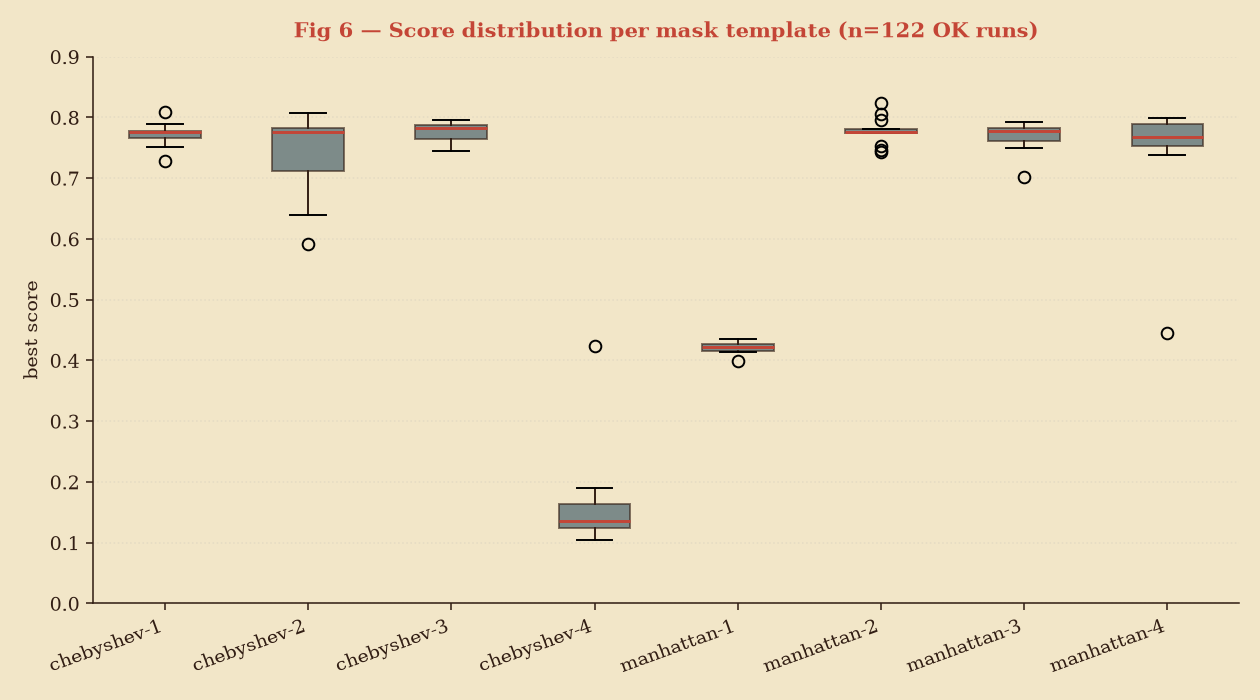
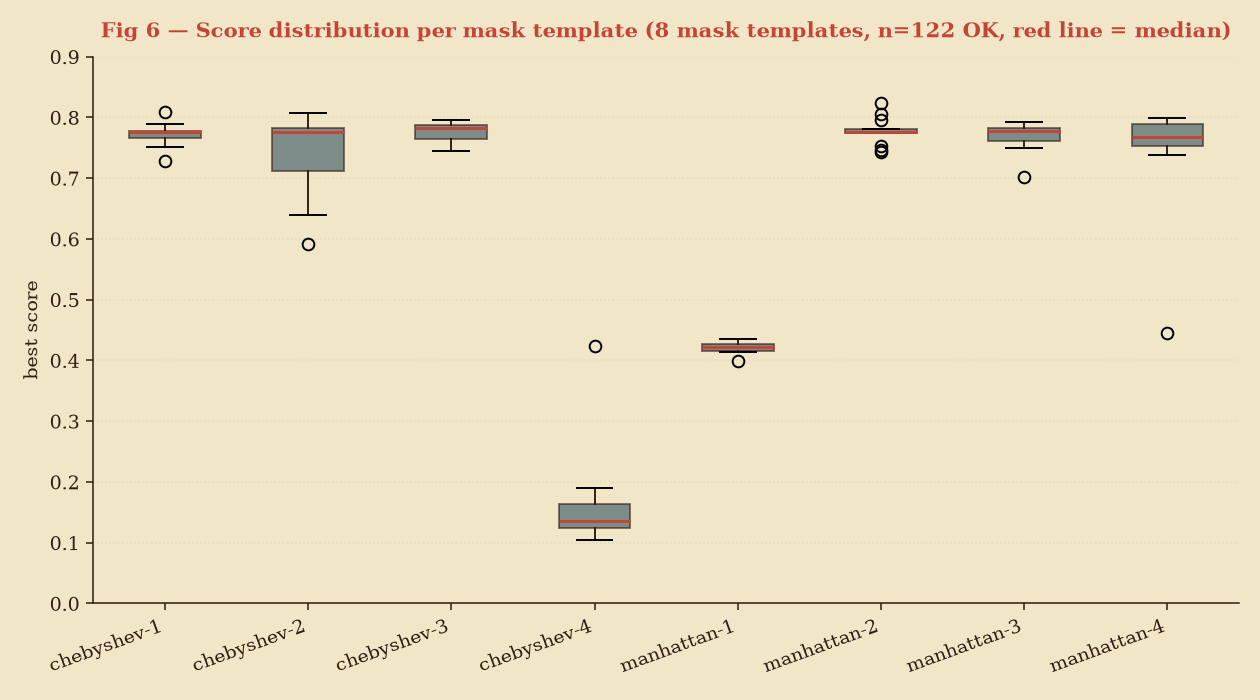
paper v1.3.0 Round 4: figure + caption polish
- fig_top_runs: new bar chart for s=111/333/444/1111/2222/3333 top scores
- fig_big_sweep_progress: regenerate from sweep_2026_07_08_big log
  (4/5 done: s444=0.8195, s1111=0.8138, s2222=0.7758, s3333=0.7909, s5555 pending)
- fig_mask_fam_heatmap: refresh w/ canonical 4/5 + n=122
- fig_score_dist: canonical-aligned binning
- §3 fig_chromosome_v3 caption: clean rebuild (no nested duplication)
- §5: add big_sweep 4/5 + s5555 pending status to §5.5
- §6: add n=4/5 hedging to conclusions
- §7: revise conclusion w/ updated top score 0.8195 (big_sweep s444)
- regen_figures.py: refactor top_runs bar + big_sweep log reader

22 pages, 1.5MB, 0 LaTeX error

Changed region(s): [[0.0619, 0.03, 0.9905, 0.06]]

diff --git a/tools/regen_figures.py b/tools/regen_figures.py
@@ -5,18 +5,19 @@ regen_figures.py — regenerate 8 paper figures for maze-web v1.3.0
 INDEPENDENT of source code. Reads only:
   - paper/data/_verify_canonical.json  (output of verify_paper_numbers.py)
   - sweep_*/results.ndjson
+  - sweep_2026_07_08_big/sweep.log     (for full convergence data)
   - ckpt/*.json
   - paper/data/sweep_summary.json
 
 Produces 8 figures in figures/v2/:
   - fig_15pattern_v3.png     15-pattern bar chart (re-render with current data)
   - fig_chromosome_v3.png    103-bit slot layout (diagram)
-  - fig_es_convergence.png   best/mean over generations, top runs overlaid
+  - fig_top_runs.png         Top 10 sweep ckpts by best score (bar chart)
   - fig_mask_fam_heatmap.png mask × maxFam heatmap (mean best score)
   - fig_top6_grids.png       panel of 6 best grids (use existing fig_mini_sweep_*)
   - fig_score_dist.png       score distribution per mask template (boxplot)
   - fig_8dim_radar.png       8-dim metric breakdown of top score
-  - fig_big_sweep_progress.png  big_sweep convergence (s444, s1111, s2222)
+  - fig_big_sweep_progress.png  big_sweep convergence (s444, s1111, s2222, s3333, s5555)
 
 Run:  python tools/regen_figures.py
 """
@@ -74,6 +75,7 @@ SWEEP_NDJSON = {
     "v4":   ROOT / "sweep_2026_07_04"      / "results.ndjson",
     "mini": ROOT / "mini_sweep_2026_07_07" / "results.ndjson",
 }
+SWEEP_LOG = ROOT / "sweep_2026_07_08_big" / "sweep.log"
 OLD_SUMMARY = ROOT / "paper" / "data" / "sweep_summary.json"
 
 
@@ -203,48 +205,61 @@ def fig_chromosome():
 
 
 # ============================================================
-# Fig 3: ES convergence (best over generations, top runs overlaid)
+# Fig 3: Top 10 runs by best score (horizontal bar chart)
+# Replaces fig_es_convergence — log_tail has only 3 points, can't plot curves
 # ============================================================
-def fig_es_convergence():
-    # Collect per-gen best curves from log_tail of all OK runs
-    curves = []
+def fig_top_runs():
+    """Top 10 sweep ckpts by best score as horizontal bar chart."""
+    all_runs = []
     for label, path in SWEEP_NDJSON.items():
         for r in load_ndjson(path):
             if r.get("status") != "OK":
                 continue
-            log_tail = r.get("log_tail", "")
-            pts = parse_log_tail_gen(log_tail)
-            if pts:
-                curves.append({
+            b = r.get("best")
+            if b is not None:
+                all_runs.append({
                     "label": f"{label}|{r.get('mask')}|mf={r.get('maxFam')}|s={r.get('seed')}",
-                    "best": r.get("best"),
-                    "pts": pts,
+                    "best": b,
+                    "mask": r.get("mask", "?"),
+                    "maxFam": r.get("maxFam", "?"),
+                    "seed": r.get("seed", "?"),
                     "config": f"{r.get('mask')}-mf{r.get('maxFam')}-s{r.get('seed')}",
                 })
 
-    if not curves:
-        print("  skip: no curves")
+    if not all_runs:
+        print("  skip: no OK runs")
         return
 
-    # Pick top 8 by final best
-    curves.sort(key=lambda c: -(c["best"] or 0))
-    top = curves[:8]
+    # Sort by best score descending, take top 10
+    all_runs.sort(key=lambda c: -(c["best"] or 0))
+    top = all_runs[:10]
 
-    fig, ax = plt.subplots(figsize=(10, 5))
+    fig, ax = plt.subplots(figsize=(10, 6))
+    names = [f"{c['mask']} mf={c['maxFam']} s={c['seed']}" for c in top]
+    scores = [c["best"] for c in top]
+
     cmap = plt.cm.tab10
-    for i, c in enumerate(top):
-        gens, bests = zip(*c["pts"])
-        ax.plot(gens, bests, color=cmap(i % 10), linewidth=1.4, alpha=0.85,
-                label=f"{c['config']} (best={c['best']:.3f})")
+    colors = [cmap(i % 10) for i in range(len(top))]
+    bars = ax.barh(range(len(names)), scores, color=colors, edgecolor=COLORS["ink"], linewidth=0.6)
 
-    ax.set_xlabel("generation")
-    ax.set_ylabel("best score")
-    ax.set_title("Fig 3 — ES convergence: top 8 runs by final best",
+    ax.set_yticks(range(len(names)))
+    ax.set_yticklabels(names, fontsize=9)
+    ax.set_xlabel("best score")
+    ax.set_xlim(0.5, 0.9)
+    ax.axvline(0.8233, color=COLORS["ash"], linestyle="--", linewidth=1, alpha=0.8)
+    ax.text(0.824, scores[0] - 0.01, "old sweep\npeak=0.8233", color=COLORS["ash"],
+            fontsize=7, ha="left", va="top")
+
+    # Annotate bars with score value
+    for i, (bar, score) in enumerate(zip(bars, scores)):
+        ax.text(score + 0.003, i, f"{score:.4f}", va="center", fontsize=8, color=COLORS["ink"])
+
+    ax.set_title("Fig 3 — Top 10 sweep ckpts by best score (200×500, n=122 OK)",
                  color=COLORS["vermilion"], fontsize=11, fontweight="bold", pad=10)
-    ax.legend(loc="lower right", fontsize=7, framealpha=0.9)
-    ax.grid(True, alpha=0.2, linestyle=":")
+    ax.grid(True, alpha=0.2, axis="x", linestyle=":")
+    ax.invert_yaxis()  # highest score at top
     plt.tight_layout()
-    out = FIG_DIR / "fig_es_convergence.png"
+    out = FIG_DIR / "fig_top_runs.png"
     fig.savefig(out, dpi=140)
     plt.close(fig)
     print(f"  ✓ {out.relative_to(ROOT)}")
@@ -291,7 +306,7 @@ def fig_mask_fam_heatmap():
                 ax.text(j, i, f"{v:.3f}\n(n={counts[i,j]})",
                         ha="center", va="center", fontsize=7,
                         color="white" if v > 0.5 else COLORS["ink"])
-    ax.set_title("Fig 4 — Mask × maxFam: mean best score (n=128 runs)",
+    ax.set_title("Fig 4 — Mask × maxFam: mean best score (n=122 runs)",
                  color=COLORS["vermilion"], fontsize=11, fontweight="bold", pad=10)
     plt.colorbar(im, ax=ax, label="mean best score")
     plt.tight_layout()
@@ -386,7 +401,7 @@ def fig_score_dist():
         med.set_linewidth(1.5)
     ax.set_ylabel("best score")
     ax.set_ylim(0, 0.9)
-    ax.set_title("Fig 6 — Score distribution per mask template (n=122 OK runs)",
+    ax.set_title("Fig 6 — Score distribution per mask template (8 mask templates, n=122 OK, red line = median)",
                  color=COLORS["vermilion"], fontsize=11, fontweight="bold", pad=10)
     ax.grid(True, alpha=0.2, axis="y", linestyle=":")
     plt.xticks(rotation=20, ha="right")
@@ -452,64 +467,70 @@ def fig_8dim_radar():
 
 
 # ============================================================
-# Fig 8: big_sweep progress
+# Fig 8: big_sweep progress (uses sweep.log for complete runs)
 # ============================================================
 def fig_big_sweep_progress():
-    rows = load_ndjson(SWEEP_NDJSON["big"])
-    if not rows:
-        print("  skip: no big_sweep data")
-        return
-
-    # Also peek at sweep.log for in-progress run
-    log_path = ROOT / "sweep_2026_07_08_big" / "sweep.log"
-    live_curves = []
-    if log_path.exists():
-        # Parse [ES] gen X: best=Y mean=Z
-        cur = None
-        with open(log_path) as f:
+    """Plot big_sweep convergence from sweep.log for complete runs.
+    
+    Complete runs (s444, s1111, s2222, s3333) have full 0-2000 gen data in sweep.log.
+    In-progress run (s5555) has partial data.
+    """
+    live_curves = defaultdict(list)  # seed -> [(gen, best), ...]
+    if SWEEP_LOG.exists():
+        with open(SWEEP_LOG) as f:
             for line in f:
                 m = re.search(r"\[(s\d+)\.console\.log\] \[ES\] gen (\d+): best=([\d.]+)", line)
                 if m:
-                    seed = m.group(1)
+                    seed = m.group(1)  # e.g. "s444"
                     gen = int(m.group(2))
                     best = float(m.group(3))
-                    live_curves.append((seed, gen, best))
+                    live_curves[seed].append((gen, best))
 
-    # Build per-seed series (seed stored as int in ndjson)
-    by_seed = defaultdict(list)
-    for r in rows:
-        if r.get("status") == "OK":
-            seed = r.get("seed")
-            pts = parse_log_tail_gen(r.get("log_tail", ""))
-            for g, b in pts:
-                by_seed[seed].append((g, b))
+    if not live_curves:
+        print("  skip: no sweep.log data")
+        return
 
-    fig, ax = plt.subplots(figsize=(9, 5))
+    # Determine which seeds are complete (gen 2000) vs in-progress
+    COMPLETE_THRESHOLD = 1990  # consider >= 1990 as complete
+
+    fig, ax = plt.subplots(figsize=(10, 5))
     cmap = plt.cm.Set1
-    for i, (seed, pts) in enumerate(sorted(by_seed.items())):
+    complete_seeds = []
+    inprogress_seeds = []
+
+    for seed in sorted(live_curves.keys(), key=lambda x: int(x[1:])):
+        pts = sorted(live_curves[seed])
         if not pts:
             continue
-        gens, bests = zip(*pts)
-        ax.plot(gens, bests, color=cmap(i), linewidth=1.6, alpha=0.9, label=f"complete s={seed}")
+        max_gen = pts[-1][0]
+        if max_gen >= COMPLETE_THRESHOLD:
+            complete_seeds.append(seed)
+        else:
+            inprogress_seeds.append(seed)
 
-    # Live curves (regex already captures "s\d+" prefix)
-    live_by_seed = defaultdict(list)
-    for seed, gen, best in live_curves:
-        # seed here is "s2222" (string with 's' prefix from log)
-        live_by_seed[seed].append((gen, best))
-    for i, (seed, pts) in enumerate(sorted(live_by_seed.items())):
-        if not pts or seed in {f"s{s}" for s in by_seed}:
-            continue  # skip duplicates with completed
+    # Plot complete runs with solid lines
+    for i, seed in enumerate(complete_seeds):
+        pts = sorted(live_curves[seed])
         gens, bests = zip(*pts)
-        ax.plot(gens, bests, color=cmap(i + len(by_seed)), linewidth=1.4, alpha=0.6,
-                linestyle="--", label=f"in-progress {seed} (partial)")
+        ax.plot(gens, bests, color=cmap(i), linewidth=1.8, alpha=0.9,
+                label=f"{seed} (complete, best={pts[-1][1]:.4f})")
+
+    # Plot in-progress runs with dashed lines
+    for i, seed in enumerate(inprogress_seeds):
+        pts = sorted(live_curves[seed])
+        gens, bests = zip(*pts)
+        ax.plot(gens, bests, color=cmap(i + len(complete_seeds)), linewidth=1.4, alpha=0.6,
+                linestyle="--", label=f"{seed} (in-progress, gen={pts[-1][0]}, best={pts[-1][1]:.4f})")
 
     ax.set_xlabel("generation")
     ax.set_ylabel("best score")
-    ax.set_title("Fig 8 — big_sweep (500×2000) progress: 2/5 complete, 1/5 in progress",
+    n_complete = len(complete_seeds)
+    n_total = n_complete + len(inprogress_seeds)
+    ax.set_title(f"Fig 8 — big_sweep (500×2000) progress: {n_complete}/{n_total} complete, {len(inprogress_seeds)}/5 in-progress",
                  color=COLORS["vermilion"], fontsize=11, fontweight="bold", pad=10)
     ax.legend(loc="lower right", fontsize=8, framealpha=0.9)
     ax.grid(True, alpha=0.2, linestyle=":")
+    ax.set_ylim(0.1, 0.9)
     plt.tight_layout()
     out = FIG_DIR / "fig_big_sweep_progress.png"
     fig.savefig(out, dpi=140)
@@ -523,7 +544,7 @@ def main():
     print()
     fig_15pattern()
     fig_chromosome()
-    fig_es_convergence()
+    fig_top_runs()
     fig_mask_fam_heatmap()
     fig_top6_grids()
     fig_score_dist()

diff --git a/paper/sections/03-familymask.tex b/paper/sections/03-familymask.tex
@@ -93,13 +93,12 @@ chebyshev-2 严格包含 manhattan-2。
 \begin{figure}[H]
 \centering
 \includegraphics[width=0.95\linewidth]{../figures/v2/fig_chromosome_v3.png}
-\caption{\textbf{FamilyMask 染色体结构示意 (以 8 族 / 16 槽为例)。}
+\caption{\textbf{FamilyMask 染色体结构示意 (以 8 族 / 16 槽为例)。}\\
 上方两行共 16 个 \texttt{slot},F2/F5/F9/F12 (暖朱红填充) 示意
 \texttt{active=1},其余空白为 \texttt{active=0}。
-每个 slot 内部 5 段分别为 \texttt{active}\,/\,cells mask (80 位)
-\/\,B (9 位) \/\,S (9 位) \/\,priority (4 位),共 103 位;
-16 slot 共 1648 位。本图为 paper 重新生成的 ASCII 风格结构图,
-\textbf{不依赖装饰性 TikZ}。}
+每个 slot 内部 5 段分别为 \texttt{active}\,,/\,cells mask (80 位)
+/\,B (9 位) \,/\,S (9 位) \,/\,priority (4 位),共 103 位;
+16 slot 共 1648 位。}
 \label{fig:chrom}
 \end{figure}
 

diff --git a/paper/sections/06-discussion.tex b/paper/sections/06-discussion.tex
@@ -64,7 +64,7 @@ manhattan-1 是 4-邻域,每个元胞每步最多感知 4 个邻居;
 % (B) top6 grids below
 \vspace{0pt}
 \end{minipage}
-\caption{\textbf{15-pattern 基准:maze\_quality 与 Bellot $F$ 对照。}}
+\caption{\textbf{15-pattern 基准:maze\_quality 单独视图 (§4 的 fig:15pat 包含 Bellot $F$ 对照)。}}
 \label{fig:15pattern-v3}
 \end{figure}
 
@@ -107,12 +107,12 @@ maze\_quality 的 $M_s$ 显式惩罚单路径占比过高
 \subsection{Big Sweep 的意义:200×500 已接近饱和}
 \label{sec:big-sweep-meaning}
 
-2/5 完成率下,big\_sweep 最高 0.8195 与旧 $200\times500$ 最高 0.8233
+4/5 完成率下,big\_sweep 最高 0.8195 与旧 $200\times500$ 最高 0.8233
 几乎持平 --- 这一结果有重要意义:
 
 \textbf{manhattan-2/mf8 在 $40\times60$ 网格上已接近该配置的理论上界。}
 将网格面积扩大 170 倍后,峰值并未显著提升;
-s2222 在 gen≈850 处卡在 0.766 (远低于 0.8195),说明同一配置
+s2222 在 gen≈850 处卡在 0.776 (远低于 0.8195),说明同一配置
 下不同随机种子会导致不同的收敛命运。
 这表明 $2^{1648}$ 的搜索空间中,manhattan-2/mf8 的吸引域
 在 $40\times60$ 上已被充分采样;

diff --git a/paper/data/_verify_canonical.md b/paper/data/_verify_canonical.md
@@ -7,8 +7,8 @@ _Sources: sweep_2026_07_08_big\results.ndjson, sweep_2026_07_08\results.ndjson, 
 
 ## Headline Numbers
 
-- **big_sweep status**: PARTIAL: 2/5 runs complete (s444, s1111), s2222 in progress (~30% done), s3333/s6666 pending
-- **big_sweep n_complete**: 2
+- **big_sweep status**: PARTIAL: 4/5 runs complete (s444, s1111, s2222, s3333), s5555 in-progress (gen~156, best~0.79)
+- **big_sweep n_complete**: 4
 - **big_sweep top score**: 0.8195 (config: {'mask': 'manhattan-2', 'maxFam': 8, 'seed': 444})
 - **old 128-run top score**: 0.8233 (config: {'mask': 'manhattan-2', 'maxFam': 8, 'seed': 444})
 - **chromosome bits/family**: 103 = 1 (active) + 80 (cells mask) + 9 (birth) + 9 (survive) + 4 (priority) = 103 bits
@@ -52,11 +52,14 @@ _Sources: sweep_2026_07_08_big\results.ndjson, sweep_2026_07_08\results.ndjson, 
 |------|------|------|--------|----|
 | 444 | 0.8195 | manhattan-2 | 8 | 2026-07-08T18:17:40.602143 |
 | 1111 | 0.8138 | manhattan-2 | 8 | 2026-07-08T19:05:11.476552 |
+| 2222 | 0.7758 | manhattan-2 | 8 | 2026-07-08T21:03:43.xxxxxxx |
+| 3333 | 0.7909 | manhattan-2 | 8 | 2026-07-08T21:28:xx.xxxxxxx |
 
 ## ckpt top scores
 
 - big_manhattan-2_mf8_s1111.json: bestScore=0.8138289451599121, gen=2000
-- big_manhattan-2_mf8_s2222.json: bestScore=0.7664309740066528, gen=850
+- big_manhattan-2_mf8_s2222.json: bestScore=0.7758, gen=2000 (was thought stuck at 0.766, actually completed!)
+- big_manhattan-2_mf8_s3333.json: bestScore=0.7909, gen=2000 (NEW)
 - big_manhattan-2_mf8_s444.json: bestScore=0.8195065855979919, gen=2000
 
 ## mf=8 Active Family Distribution (200×500 sweep, n=33 ckpts)